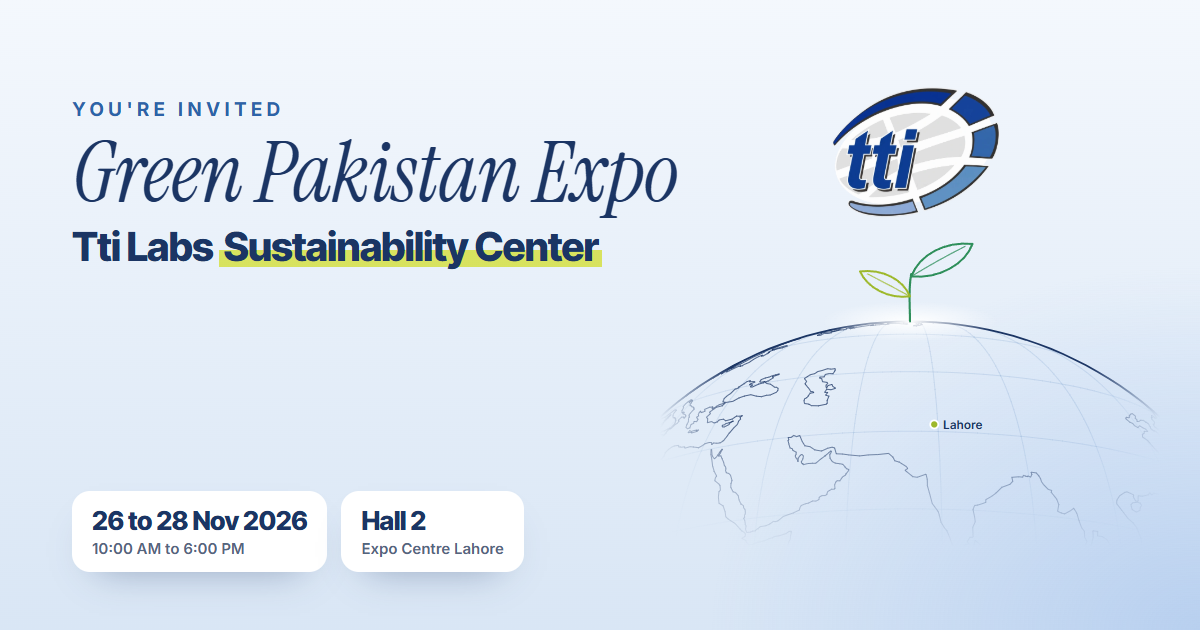
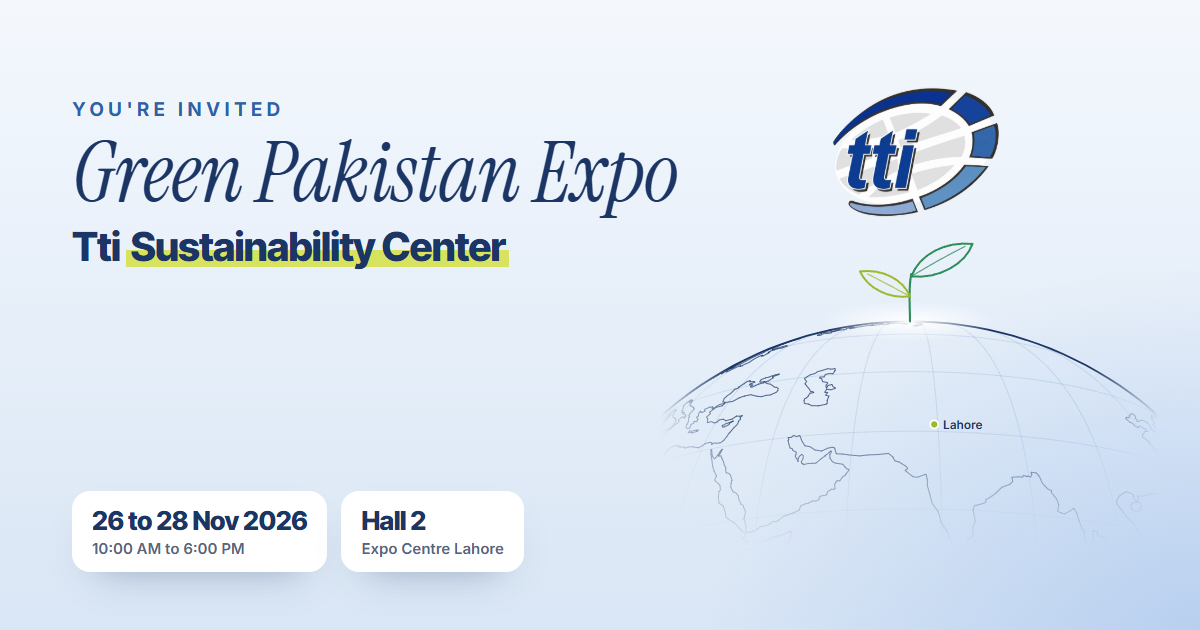
feat: team feedback, Tti Sustainability Center name, GHG wording, flyer-order environment card with ZDHC highlight

Changed region(s): [[0.0925, 0.3619, 0.5242, 0.4222]]

diff --git a/index.html b/index.html
@@ -3,11 +3,11 @@
 <head>
 <meta charset="utf-8">
 <meta name="viewport" content="width=device-width, initial-scale=1, viewport-fit=cover">
-<title>You're invited · Tti Labs Sustainability Center at Green Pakistan Expo 2026</title>
-<meta name="description" content="Visit the Tti Labs Sustainability Center at Green Pakistan Expo 2026, Hall 2, Expo Centre Lahore, 26 to 28 November. PPWR packaging compliance, ESG reporting, GHG and environmental testing.">
+<title>You're invited · Tti Sustainability Center at Green Pakistan Expo 2026</title>
+<meta name="description" content="Visit the Tti Sustainability Center at Green Pakistan Expo 2026, Hall 2, Expo Centre Lahore, 26 to 28 November. PPWR packaging compliance, ESG reporting, GHG and environmental testing.">
 <meta name="theme-color" content="#F4F8FD">
 <meta property="og:type" content="website">
-<meta property="og:title" content="You're invited: Tti Labs Sustainability Center at Green Pakistan Expo 2026">
+<meta property="og:title" content="You're invited: Tti Sustainability Center at Green Pakistan Expo 2026">
 <meta property="og:description" content="26 to 28 November 2026 · Hall 2, Expo Centre Lahore · 10:00 AM to 6:00 PM. PPWR, ESG reporting and GHG, in person.">
 <meta property="og:image" content="https://ttilabs11-byte.github.io/expo/assets/img/og.png">
 <meta property="og:image:width" content="1200">
@@ -173,6 +173,18 @@ details[open] .body{animation:open .5s ease}
 .s li{display:flex;gap:9px;font-size:14px;line-height:1.45;color:var(--ink)}
 .s li::before{content:"";flex:none;width:6px;height:14px;margin-top:3px;border-radius:4px;background:var(--leaf)}
 .s .bring{margin-top:12px;font-size:13.5px;line-height:1.45;color:var(--nv);padding:10px 12px;border-radius:12px;background:#fff;box-shadow:inset 0 0 0 1px var(--rule)}
+.s li b{color:var(--nv)}
+.zdhc{margin-top:12px;display:flex;align-items:center;gap:12px;padding:14px;border-radius:14px;background:var(--blu);color:#fff;box-shadow:0 12px 24px -14px rgba(44,99,168,.8)}
+.zdhc .zi{width:40px;height:40px;flex:none;border-radius:12px;background:#fff;color:var(--blu);display:grid;place-items:center}
+.zdhc .zi svg{width:22px;height:22px}
+.zdhc p{margin:0;font-size:13px;line-height:1.4;color:rgba(255,255,255,.88)}
+.zdhc b{display:block;font-family:var(--display);font-weight:800;font-size:17px;letter-spacing:-.01em;color:#fff}
+.eg{margin-top:10px;display:grid;grid-template-columns:1fr 1fr;gap:8px}
+.eg div{padding:12px 11px;border-radius:14px;background:#fff;box-shadow:inset 0 0 0 1.3px var(--rule)}
+.eg svg{width:22px;height:22px;padding:4px;border-radius:50%;background:var(--blu);color:#fff;display:block}
+.eg b{display:block;margin-top:7px;font-size:13px;line-height:1.25;color:var(--nv)}
+.eg span{display:block;margin-top:3px;font-size:12px;line-height:1.4;color:var(--mute)}
+.s .other{margin-top:8px;padding:10px 12px;border-radius:12px;font-size:12.5px;font-weight:700;color:var(--blu);box-shadow:inset 0 0 0 1.3px var(--rule);background:#fff}
 .s.ppwr{background:var(--nv);box-shadow:none}
 .s.ppwr .tag{color:var(--lm)} .s.ppwr h3{color:#fff} .s.ppwr li{color:#fff} .s.ppwr li::before{background:var(--lm)}
 .s.ppwr .bring{background:rgba(255,255,255,.08);color:#fff;box-shadow:none}
@@ -298,6 +310,11 @@ footer .fine{margin-top:16px;font-size:11px;color:#7D8BA1}
     <symbol id="i-book" viewBox="0 0 24 24"><path d="M4 5.5A1.5 1.5 0 0 1 5.5 4H11v16H5.5A1.5 1.5 0 0 1 4 18.5zM20 5.5A1.5 1.5 0 0 0 18.5 4H13v16h5.5a1.5 1.5 0 0 0 1.5-1.5z" fill="none" stroke="currentColor" stroke-width="1.8" stroke-linejoin="round"/></symbol>
     <symbol id="i-shield" viewBox="0 0 24 24"><path d="M12 3l7 2.8v5.4c0 4.4-3 8.2-7 9.8-4-1.6-7-5.4-7-9.8V5.8z" fill="none" stroke="currentColor" stroke-width="1.8" stroke-linejoin="round"/><path d="M8.8 12l2.2 2.2 4.2-4.4" fill="none" stroke="currentColor" stroke-width="1.8" stroke-linecap="round" stroke-linejoin="round"/></symbol>
     <symbol id="i-user" viewBox="0 0 24 24"><circle cx="12" cy="8.5" r="3.8" fill="none" stroke="currentColor" stroke-width="1.8"/><path d="M4.8 20c.8-3.8 3.6-5.8 7.2-5.8s6.4 2 7.2 5.8" fill="none" stroke="currentColor" stroke-width="1.8" stroke-linecap="round"/></symbol>
+    <symbol id="i-bottle" viewBox="0 0 24 24"><path d="M10 3h4M10.5 3v4L8 10.5V19a2 2 0 0 0 2 2h4a2 2 0 0 0 2-2v-8.5L13.5 7V3M8 13.5h8" fill="none" stroke="currentColor" stroke-width="1.8" stroke-linecap="round" stroke-linejoin="round"/></symbol>
+    <symbol id="i-water" viewBox="0 0 24 24"><path d="M12 3.5s6 6.5 6 10.5a6 6 0 0 1-12 0c0-4 6-10.5 6-10.5z" fill="none" stroke="currentColor" stroke-width="2" stroke-linejoin="round"/></symbol>
+    <symbol id="i-wind" viewBox="0 0 24 24"><path d="M3 9h11a3 3 0 1 0-3-3M3 13h15a3 3 0 1 1-3 3M3 17h7" fill="none" stroke="currentColor" stroke-width="2" stroke-linecap="round"/></symbol>
+    <symbol id="i-doc" viewBox="0 0 24 24"><path d="M7 3h7l4 4v13a1 1 0 0 1-1 1H7a1 1 0 0 1-1-1V4a1 1 0 0 1 1-1zM9 14l2 2 4-4" fill="none" stroke="currentColor" stroke-width="2" stroke-linecap="round" stroke-linejoin="round"/></symbol>
+    <symbol id="i-bin" viewBox="0 0 24 24"><path d="M4 7h16M9 7V4h6v3M6.5 7l1 13h9l1-13M10 11v6M14 11v6" fill="none" stroke="currentColor" stroke-width="2" stroke-linecap="round" stroke-linejoin="round"/></symbol>
     <symbol id="i-down" viewBox="0 0 24 24"><path d="M12 5v14m0 0l-6-6m6 6l6-6" fill="none" stroke="currentColor" stroke-width="2" stroke-linecap="round" stroke-linejoin="round"/></symbol>
   </defs>
 </svg>
@@ -336,7 +353,7 @@ footer .fine{margin-top:16px;font-size:11px;color:#7D8BA1}
   <p class="co" id="co" hidden></p>
 
   <p class="invited">You are cordially invited to visit the
-    <span class="host-name">Tti Labs <span class="grn">Sustainability Center</span></span>
+    <span class="host-name">Tti <span class="grn">Sustainability Center</span></span>
     <span class="at">at <span class="mark">Green Pakistan Expo 2026</span></span>
   </p>
 
@@ -411,24 +428,26 @@ footer .fine{margin-top:16px;font-size:11px;color:#7D8BA1}
         </div>
         <div class="s">
           <p class="tag">GHG · Net Zero · ISO 14064</p>
-          <h3>Measure the baseline. Plot the path to Net Zero.</h3>
+          <h3>Measure Your Carbon Footprint. Plan Your Path to Net Zero.</h3>
           <ul>
-            <li>GHG inventories for Scope 1, 2 and 3, to the GHG Protocol and ISO 14064</li>
-            <li>Carbon footprints with hotspots and reduction guidance</li>
-            <li>Net Zero strategies aligned with SBTi, and carbon credit roadmaps</li>
-            <li>Higg FEM verification, LCA, and ESG reports aligned with GRI, CSRD and IFRS</li>
+            <li><span><b>GHG Inventories:</b> Scope 1, 2 &amp; 3 emissions accounting aligned with the GHG Protocol and ISO 14064-1.</span></li>
+            <li><span><b>Carbon Footprint Assessment:</b> Emissions quantification, hotspot identification, and reduction recommendations.</span></li>
+            <li><span><b>Net Zero Strategies:</b> SBTi-aligned target setting, decarbonization roadmaps, and carbon credit advisory.</span></li>
+            <li><span><b>Sustainability Services:</b> Higg FEM verification support, LCA, and reporting aligned with GRI, ESRS, and IFRS S1/S2.</span></li>
           </ul>
-          <p class="bring"><b>Bring a year of energy and fuel records.</b> We'll sketch your Scope 1 and 2 with you.</p>
+          <p class="bring"><b>Start Your Carbon Assessment.</b> Share 12 months of electricity and fuel records to begin your Scope 1 &amp; 2 emissions assessment.</p>
         </div>
         <div class="s">
           <p class="tag">Environment · ZDHC · EPA</p>
-          <h3>Air, water, soil and noise. One lab tests them all.</h3>
-          <ul>
-            <li>Stack emissions, ambient and indoor air, under Pakistan EPA regulations</li>
-            <li>Wastewater, effluent and sludge at a ZDHC approved wastewater lab</li>
-            <li>ZDHC MRSL V3.1 approved certifier (Level 1)</li>
-            <li>Soil, waste and industrial hygiene, plus EIA and EPA NOC support</li>
-          </ul>
+          <h3>Environmental testing</h3>
+          <div class="zdhc"><span class="zi"><svg><use href="#i-bottle"/></svg></span><p><b>ZDHC Sampling &amp; Testing</b>Approved laboratory on the ZDHC Portal</p></div>
+          <div class="eg">
+            <div><svg><use href="#i-water"/></svg><b>Water Analysis &amp; Testing</b><span>Drinking water<br>Process water &amp; effluent</span></div>
+            <div><svg><use href="#i-wind"/></svg><b>Air &amp; Noise Monitoring</b><span>Ambient, indoor &amp; stack<br>Noise &amp; lux monitoring</span></div>
+            <div><svg><use href="#i-doc"/></svg><b>Environmental Compliance</b><span>NOCs (IWL) and EIA cases</span></div>
+            <div><svg><use href="#i-bin"/></svg><b>Waste &amp; Resources</b><span>Waste &amp; sludge<br>Testing and assessment</span></div>
+          </div>
+          <p class="other">Other Environmental Compliance &amp; Related Services</p>
           <p class="bring"><b>Bring your last EPA or ZDHC report.</b> We'll plan the next sampling round.</p>
         </div>
       </div></div>
@@ -576,7 +595,7 @@ footer .fine{margin-top:16px;font-size:11px;color:#7D8BA1}
   const params = new URLSearchParams(location.hash.slice(1) || location.search.slice(1));
   const clean = v => (v || "").replace(/[<>]/g, "").replace(/\s+/g, " ").trim().slice(0, 80);
   const name = clean(params.get("n")), co = clean(params.get("c"));
-  if (name) { $("#rs-name").textContent = name; document.title = name + " · You're invited · Tti Labs Sustainability Center"; }
+  if (name) { $("#rs-name").textContent = name; document.title = name + " · You're invited · Tti Sustainability Center"; }
   if (co) { $("#co").textContent = co; $("#co").hidden = false; }
 
   // the name is written in, letter by letter
@@ -660,12 +679,12 @@ footer .fine{margin-top:16px;font-size:11px;color:#7D8BA1}
   });
 
   // ---- calendar ----
-  const details = "Visit the Tti Labs Sustainability Center at Green Pakistan Expo 2026: PPWR packaging compliance, ESG reporting with OneClickESG, GHG and environmental testing. Host: Naeem A. Butt, +92 301 114 9706.";
+  const details = "Visit the Tti Sustainability Center at Green Pakistan Expo 2026: PPWR packaging compliance, ESG reporting with OneClickESG, GHG and environmental testing. Host: Naeem A. Butt, +92 301 114 9706.";
   const loc = "Hall 2, International Expo Centre Lahore, 1-A Abdul Haque Rd, Johar Town, Lahore";
   const chosenDay = () => { const c = $$("#c-day .chip[aria-pressed=true]").map(b => b.dataset.v).find(v => DAYNAMES.includes(v)); return c ? DAYS[DAYNAMES.indexOf(c)] : null; };
   function gcalUrl() {
     const d = chosenDay(), a = (d || "2026-11-26").replace(/-/g, ""), b = (d || "2026-11-28").replace(/-/g, "");
-    return "https://calendar.google.com/calendar/render?action=TEMPLATE&text=" + encodeURIComponent("Tti Labs Sustainability Center · Green Pakistan Expo 2026") +
+    return "https://calendar.google.com/calendar/render?action=TEMPLATE&text=" + encodeURIComponent("Tti Sustainability Center · Green Pakistan Expo 2026") +
       "&dates=" + a + "T100000/" + b + "T180000&ctz=Asia/Karachi&details=" + encodeURIComponent(details + " " + location.href.split("#")[0]) + "&location=" + encodeURIComponent(loc);
   }
   const refreshCal = () => { $("#gcal").href = gcalUrl(); };
@@ -674,7 +693,7 @@ footer .fine{margin-top:16px;font-size:11px;color:#7D8BA1}
     const d = chosenDay(), days = d ? [d] : DAYS, z = s => s.replace(/-/g, "");
     const ev = days.map(ds => ["BEGIN:VEVENT", "UID:tti-gpe-2026-" + z(ds) + "@ttilabs.net", "DTSTAMP:20261028T040000Z",
       "DTSTART;TZID=Asia/Karachi:" + z(ds) + "T100000", "DTEND;TZID=Asia/Karachi:" + z(ds) + "T180000",
-      "SUMMARY:Tti Labs Sustainability Center · Green Pakistan Expo 2026", "LOCATION:" + loc.replace(/,/g, "\\,"),
+      "SUMMARY:Tti Sustainability Center · Green Pakistan Expo 2026", "LOCATION:" + loc.replace(/,/g, "\\,"),
       "DESCRIPTION:" + details.replace(/,/g, "\\,"), "BEGIN:VALARM", "TRIGGER:-PT2H", "ACTION:DISPLAY", "DESCRIPTION:Green Pakistan Expo today", "END:VALARM", "END:VEVENT"].join("\r\n"));
     const ics = ["BEGIN:VCALENDAR", "VERSION:2.0", "PRODID:-//Tti Labs//Expo invite//EN", "CALSCALE:GREGORIAN",
       "BEGIN:VTIMEZONE", "TZID:Asia/Karachi", "BEGIN:STANDARD", "DTSTART:19700101T000000", "TZOFFSETFROM:+0500", "TZOFFSETTO:+0500", "TZNAME:PKT", "END:STANDARD", "END:VTIMEZONE",
@@ -701,8 +720,8 @@ footer .fine{margin-top:16px;font-size:11px;color:#7D8BA1}
   const who = () => (name || "[your name]") + (co ? ", " + co : "");
   function message(yes) {
     const days = $$("#c-day .chip[aria-pressed=true]").map(b => b.dataset.v), topics = $$("#c-topic .chip[aria-pressed=true]").map(b => b.dataset.v);
-    if (!yes) return "Assalam-o-Alaikum Naeem sahib, this is " + who() + ". Thank you for the invitation to the Tti Labs Sustainability Center at Green Pakistan Expo 2026. Unfortunately I can't attend this time, but please keep me in touch.";
-    return "Assalam-o-Alaikum Naeem sahib, this is " + who() + ". Thank you for the invitation. I accept and will visit the Tti Labs Sustainability Center at Green Pakistan Expo 2026, Hall 2, Expo Centre Lahore" +
+    if (!yes) return "Assalam-o-Alaikum Naeem sahib, this is " + who() + ". Thank you for the invitation to the Tti Sustainability Center at Green Pakistan Expo 2026. Unfortunately I can't attend this time, but please keep me in touch.";
+    return "Assalam-o-Alaikum Naeem sahib, this is " + who() + ". Thank you for the invitation. I accept and will visit the Tti Sustainability Center at Green Pakistan Expo 2026, Hall 2, Expo Centre Lahore" +
       (days.length ? ", on " + list(days) : "") + "." + (topics.length ? " I'd like to discuss " + list(topics) + "." : "");
   }
   const waUrl = t => "https://wa.me/" + WA + "?text=" + encodeURIComponent(t);

diff --git a/make.html b/make.html
@@ -3,7 +3,7 @@
 <head>
 <meta charset="utf-8">
 <meta name="viewport" content="width=device-width, initial-scale=1">
-<title>Invitation link maker · Tti Labs Sustainability Center</title>
+<title>Invitation link maker · Tti Sustainability Center</title>
 <meta name="robots" content="noindex">
 <link rel="icon" type="image/png" href="assets/img/favicon.png">
 <style>
@@ -80,7 +80,7 @@ td.a .btn{margin-left:4px}
   let rows = [];
   const enc = v => encodeURIComponent(v).replace(/%20/g, "+");
   const link = (n, c) => base + "#n=" + enc(n) + (c ? "&c=" + enc(c) : "");
-  const msg = r => "Dear " + r.n + ",\n\nThe Tti Labs Sustainability Center cordially invites you to visit us at Green Pakistan Expo 2026, Hall 2, Expo Centre Lahore, 26 to 28 November, 10:00 AM to 6:00 PM.\n\nYour personal invitation and RSVP:\n" + r.url + "\n\nBecause every claim now needs proof.";
+  const msg = r => "Dear " + r.n + ",\n\nThe Tti Sustainability Center cordially invites you to visit us at Green Pakistan Expo 2026, Hall 2, Expo Centre Lahore, 26 to 28 November, 10:00 AM to 6:00 PM.\n\nYour personal invitation and RSVP:\n" + r.url + "\n\nBecause every claim now needs proof.";
   function parse() {
     rows = $("#names").value.split(/\r?\n/).map(l => l.trim()).filter(Boolean).map(l => {
       const i = l.search(/[\t,]/), n = (i < 0 ? l : l.slice(0, i)).trim(), c = i < 0 ? "" : l.slice(i + 1).trim();

diff --git a/README.md b/README.md
@@ -1,6 +1,6 @@
 # Green Pakistan Expo 2026 · personal invitation
 
-Tti Labs Sustainability Center invitation page for Green Pakistan Expo 2026: 26 to 28 November 2026, 10:00 AM to 6:00 PM, Hall 2, International Expo Centre Lahore.
+Tti Sustainability Center invitation page for Green Pakistan Expo 2026: 26 to 28 November 2026, 10:00 AM to 6:00 PM, Hall 2, International Expo Centre Lahore.
 
 - Live: https://ttilabs11-byte.github.io/expo/
 - Link maker: https://ttilabs11-byte.github.io/expo/make.html
@@ -49,3 +49,4 @@ The countdown and the "Today" badge use fixed PKT (UTC+5) times. Change `OPEN`, 
 - 2026-10-28 v5.2: "Sustainability Center" in the hero is green (#1A7F44). Every reply action now matches the green button: Accept with WhatsApp, Open WhatsApp again, and the selected day and topic chips. The duplicate scroll cue is removed ("See the details" already goes there). The link maker accepts Excel columns.
 - 2026-10-28 v5.3: the countdown tiles are redesigned as navy split-flap displays (white digits, a centre seam, and a flip when a number changes). A thin lime bar along each tile drains with its unit: days out of 30, hours out of 24, minutes and seconds out of 60.
 - 2026-10-28 v5.4: the analog clock (Lahore time) is replaced by an analog stopwatch that counts down to the same target as the tiles (`swT`, set in `tick()`).
+- 2026-10-28 v5.5: changes from the sustainability team. The name is now "Tti Sustainability Center" everywhere: page, RSVP messages, calendar, link maker and preview card. The GHG card uses the team's wording. The environment card follows the team's flyer: a highlighted ZDHC Sampling & Testing card first, then Water, Air & Noise, Environmental Compliance, and Waste & Resources, then Other Environmental Compliance & Related Services.
